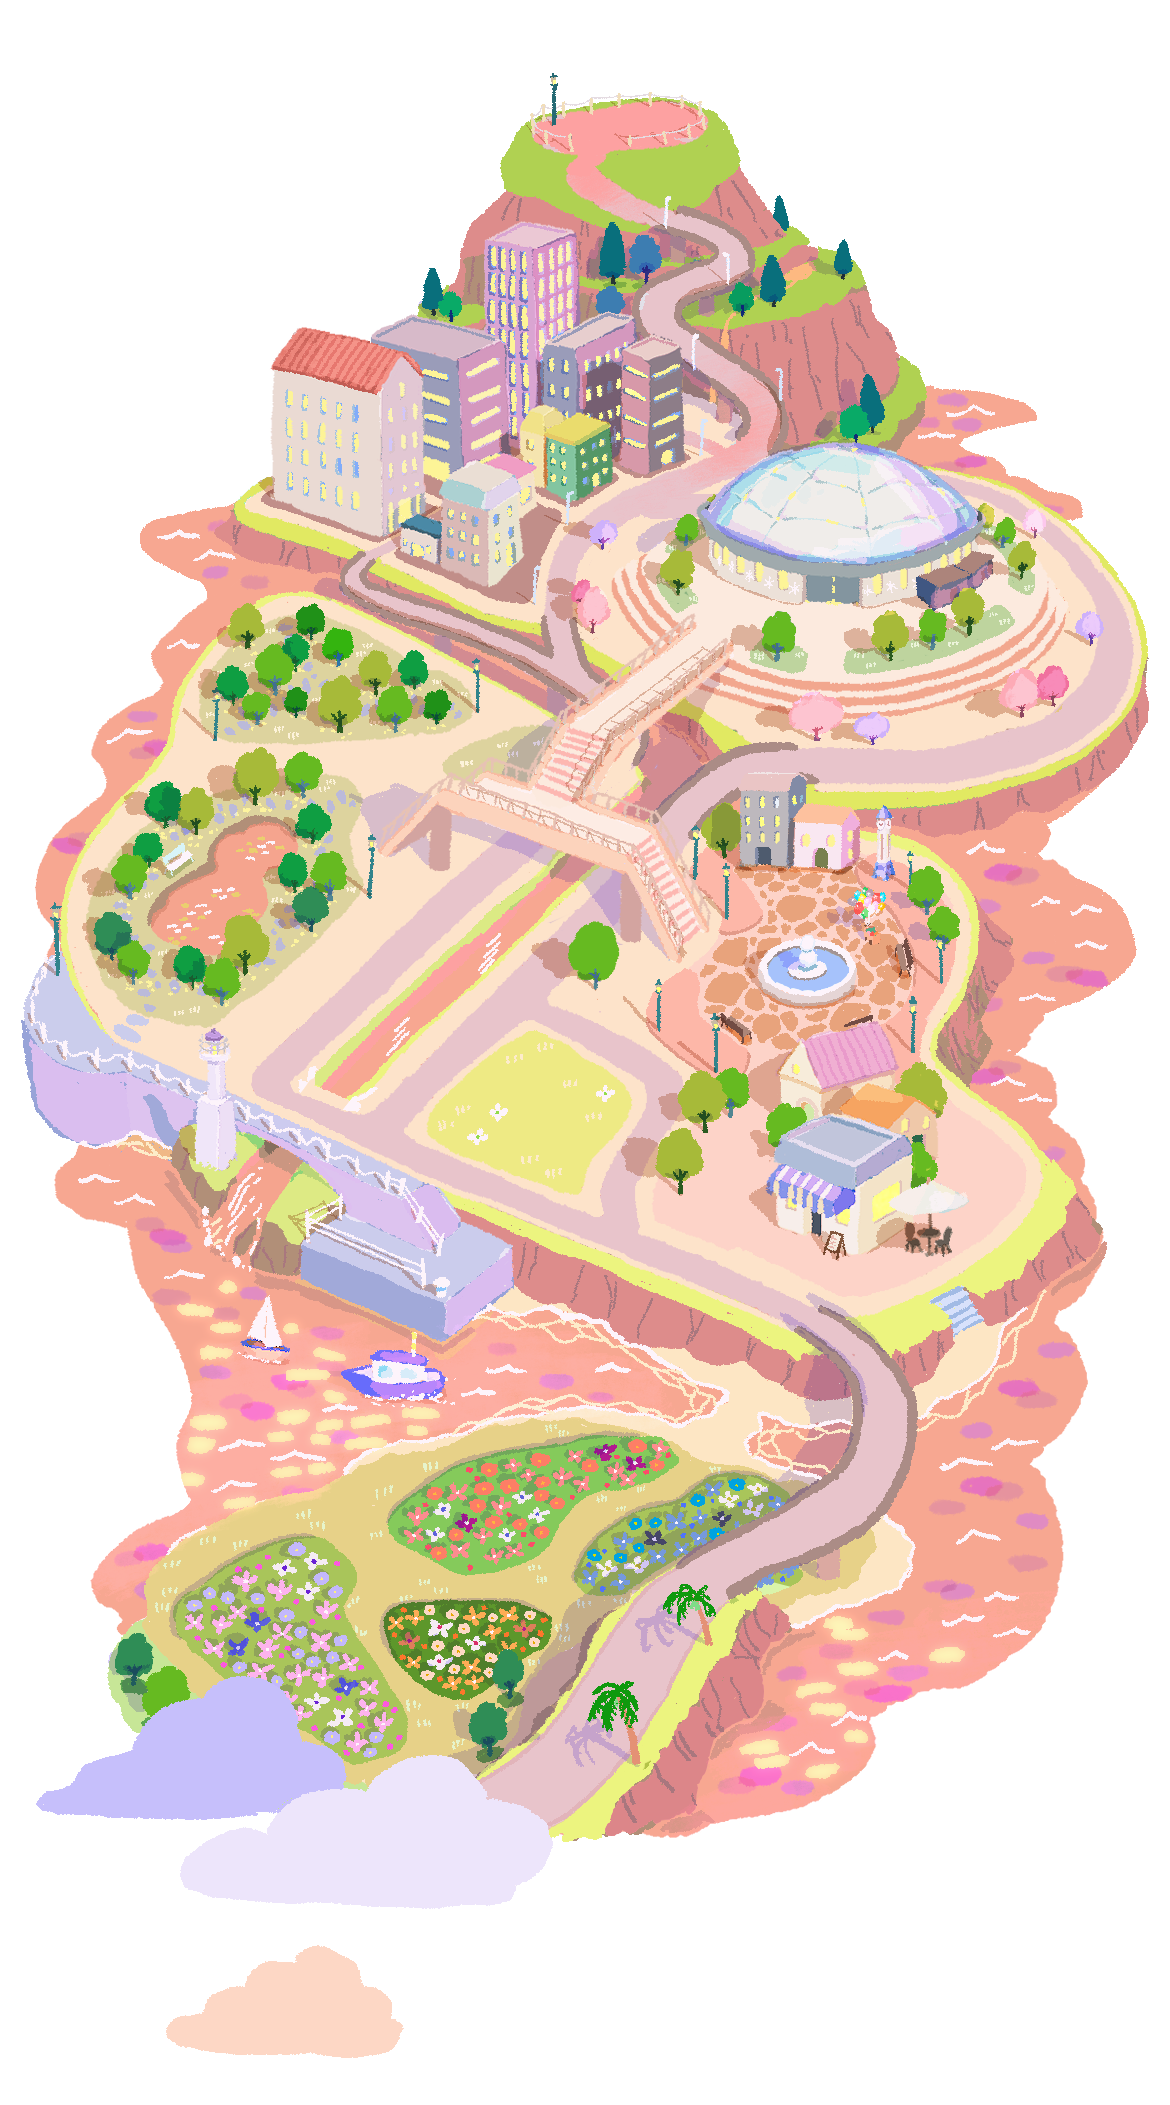
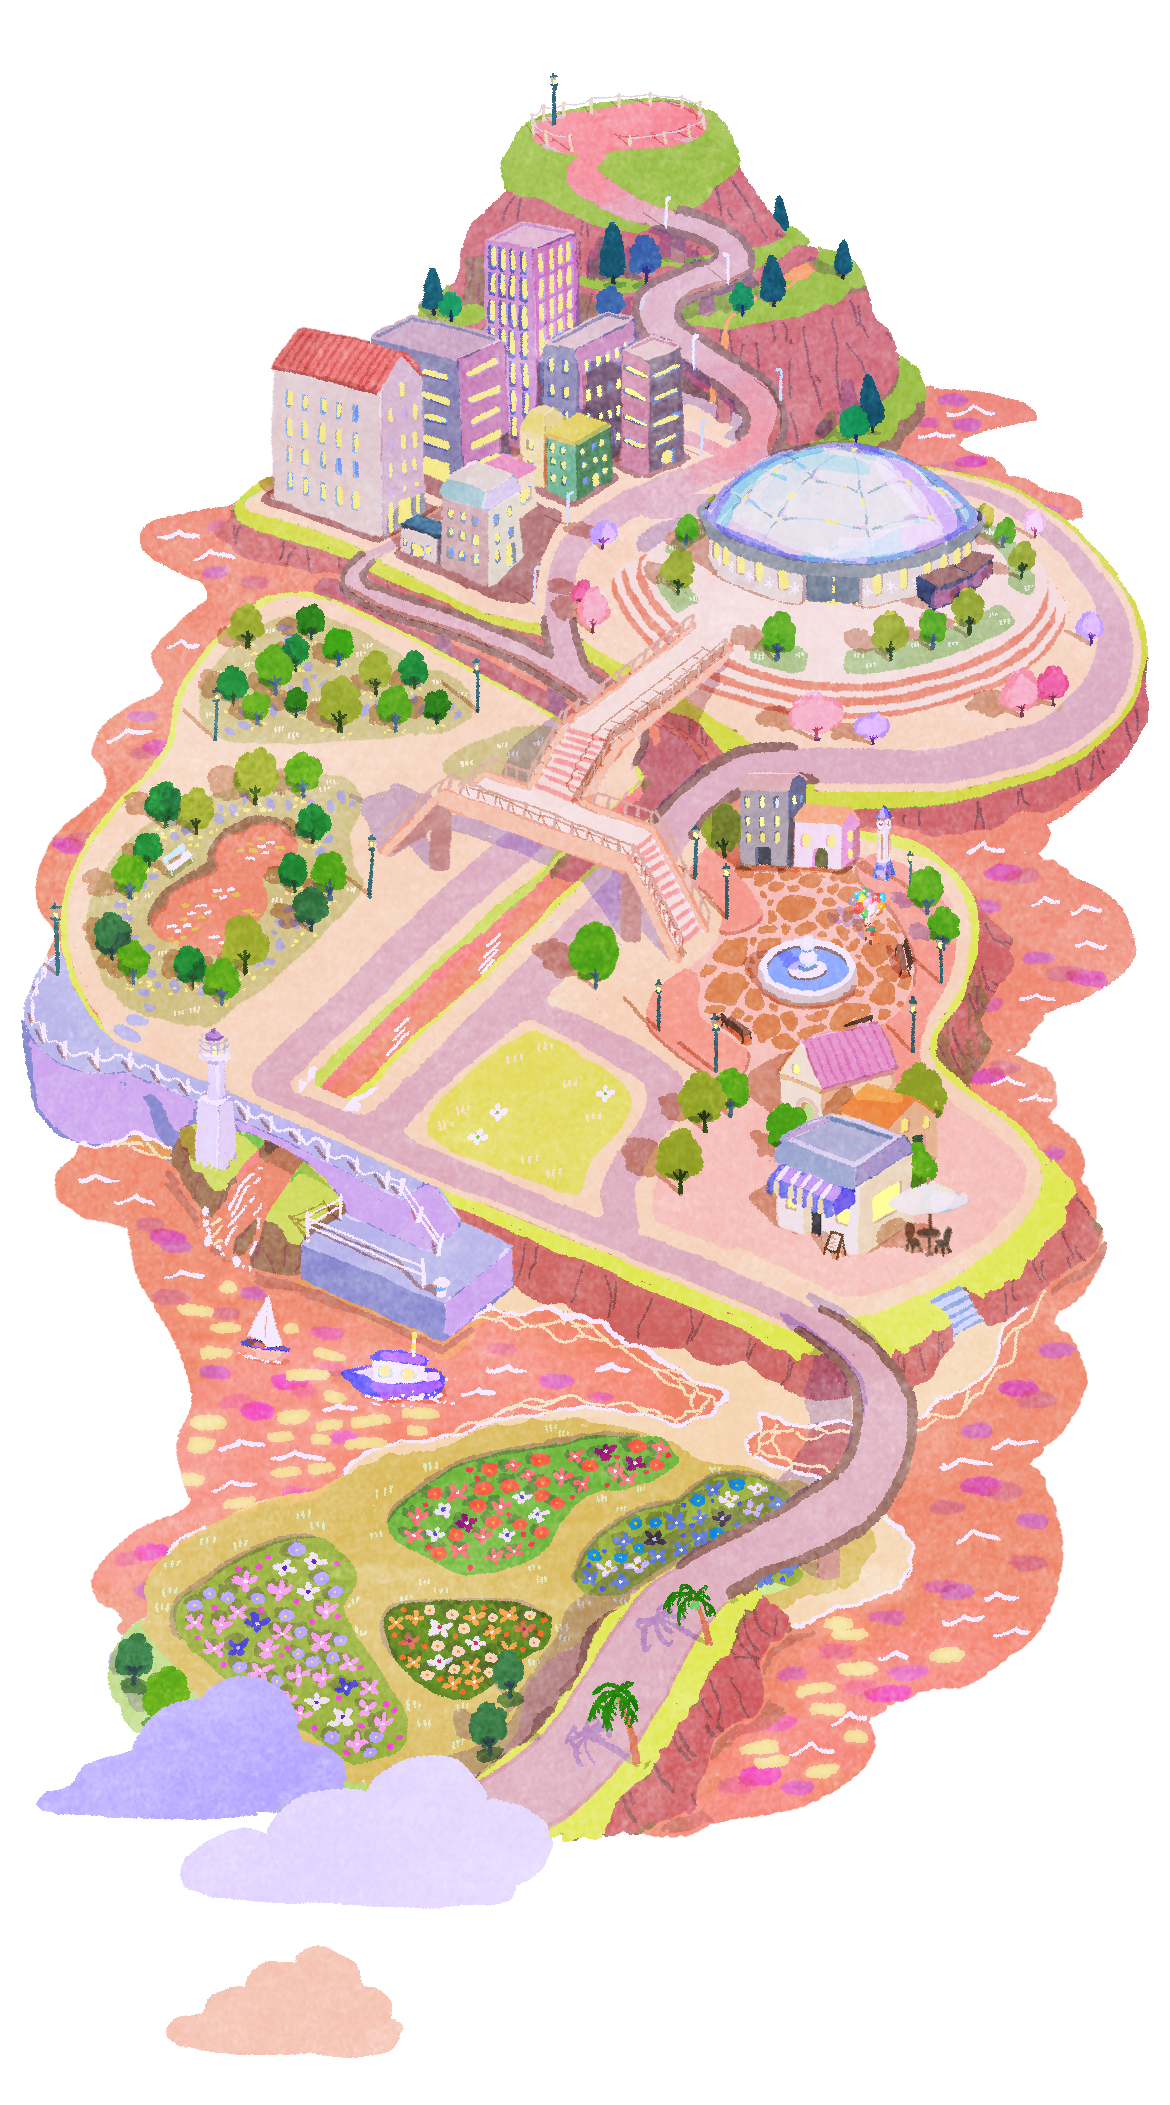
Add files via upload

diff --git a/index.html b/index.html
@@ -2717,7 +2717,7 @@ body.weather-snow .sky-stars {
   morning:"snow-map-morning.png?v=01418",
   day:"snow-map-day.png?v=01418",
   evening:"snow-map-evening.png?v=01418",
-  twilight:"snow-map-twilight.png?v=01418",
+  twilight:"snow-map-twilight.png?v=01419",
   night:"snow-map-night.png?v=01418",
   midnight:"snow-map-midnight.png?v=01418"
 };
@@ -2730,7 +2730,7 @@ body.weather-snow .sky-stars {
   midnight:"snow-cloud-night.png?v=01418"
 };
     const skyCloudImages=[...document.querySelectorAll("[data-sky-cloud]")];
-    const WEATHER_VERSION="01418";
+    const WEATHER_VERSION="01419";
     const weatherMaps={
       snow:{
         morning:`snow-map-snow-morning.png?v=${WEATHER_VERSION}`,
